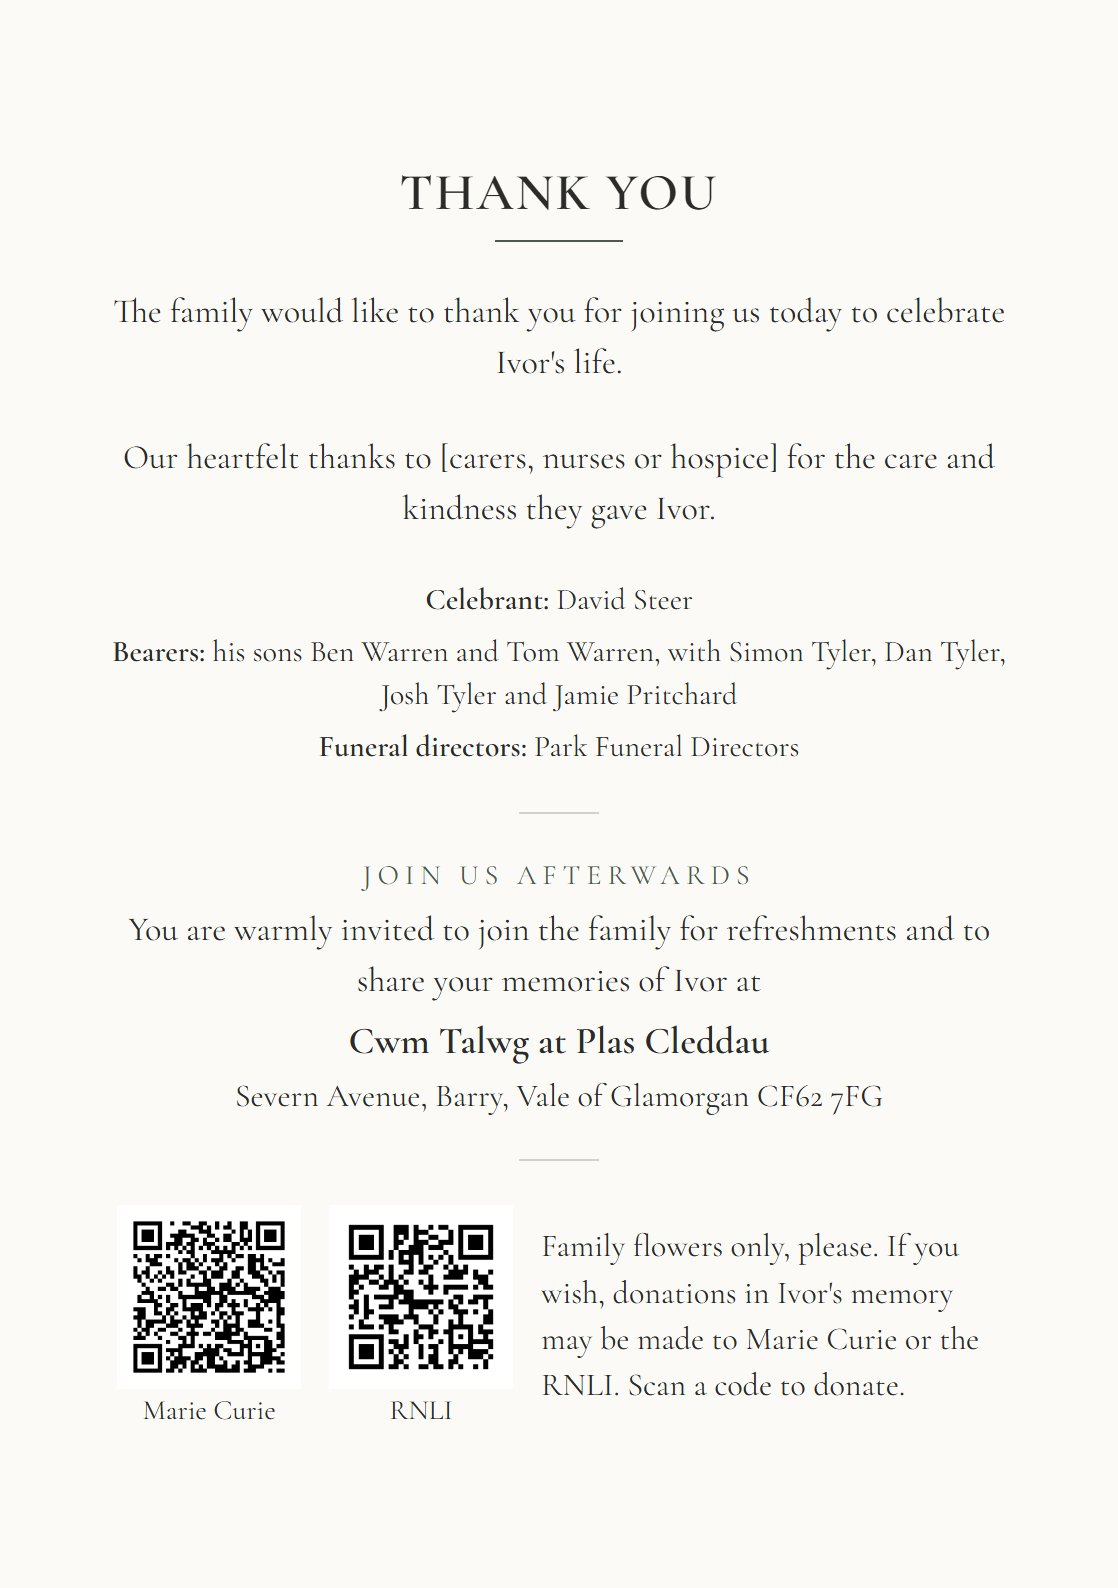
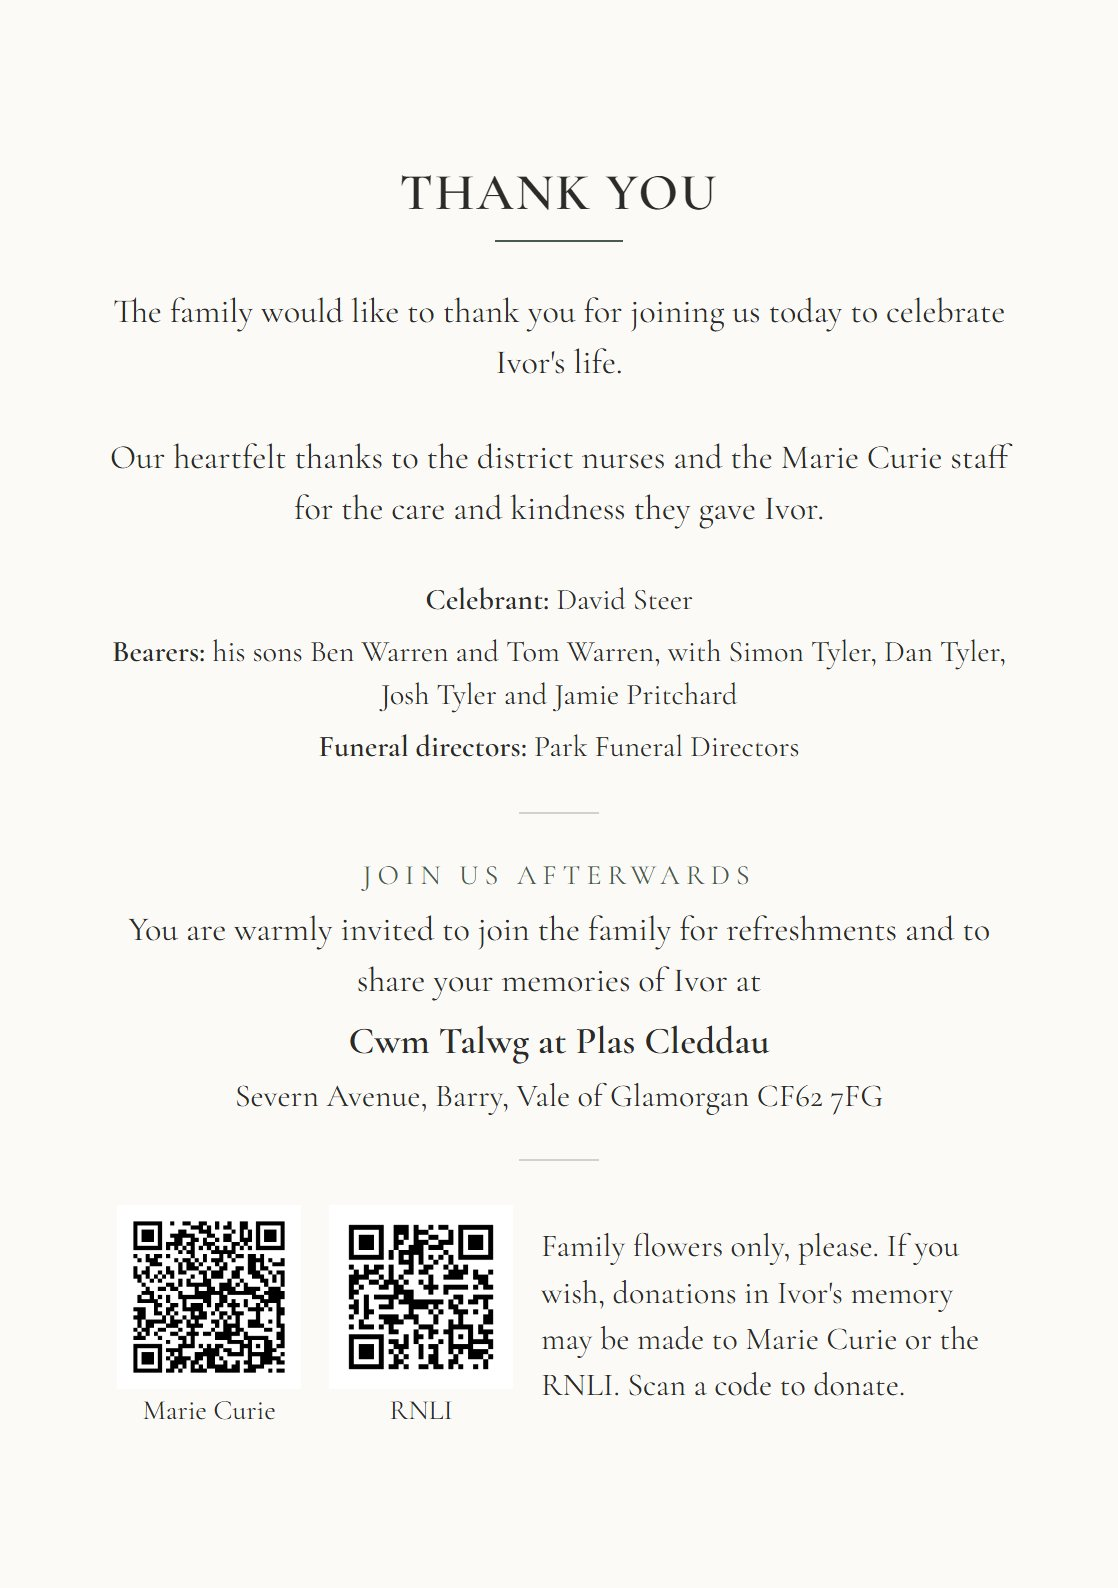
Page 7: thanks to the district nurses and Marie Curie staff

Changed region(s): [[0.0912, 0.2777, 0.9123, 0.3394]]

diff --git a/index.html b/index.html
@@ -348,7 +348,7 @@ const DRAFTS=[
  ["Order of service","p5","Page 4 · Reading","drafts/Ivor-5-about-ivor.jpg?v=10"],
  ["Order of service","p6","Page 5 · Remembering Ivor","drafts/Ivor-6-photos.jpg?v=10"],
  ["Order of service","col","Page 6 · Photo collage","drafts/Ivor-7-collage.jpg?v=15"],
- ["Order of service","p7","Page 7 · Thank you and afterwards","drafts/Ivor-7-thank-you.jpg?v=7"],
+ ["Order of service","p7","Page 7 · Thank you and afterwards","drafts/Ivor-7-thank-you.jpg?v=8"],
  ["Order of service","p8","Page 8 · Back cover","drafts/Ivor-8-back-cover.jpg?v=2"],
  ["Invitations and cards","inv","Invitation (funeral and wake)","drafts/Ivor-funeral-invitation.jpg?v=15"],
  ["Invitations and cards","board","Wake welcome board","drafts/Ivor-wake-welcome-board.jpg?v=10"],

diff --git a/flip/order-of-service.html b/flip/order-of-service.html
@@ -23,7 +23,7 @@
   </nav>
   <p class="hint">Tap or drag a page corner to turn it.</p>
 </main>
-<script>window.BOOK = { label: "Order of service", pages: ["pages/oos-1.jpg","pages/oos-2.jpg","pages/oos-3.jpg","pages/oos-4.jpg","pages/oos-5.jpg","pages/oos-6.jpg","pages/oos-7.jpg","pages/oos-8.jpg"] };</script>
+<script>window.BOOK = { label: "Order of service", pages: ["pages/oos-1.jpg","pages/oos-2.jpg","pages/oos-3.jpg","pages/oos-4.jpg","pages/oos-5.jpg","pages/oos-6.jpg","pages/oos-7.jpg?v=2","pages/oos-8.jpg"] };</script>
 <script src="https://cdn.jsdelivr.net/npm/page-flip@2.0.7/dist/js/page-flip.browser.js"></script>
 <script src="flip.js"></script>
 </body>
